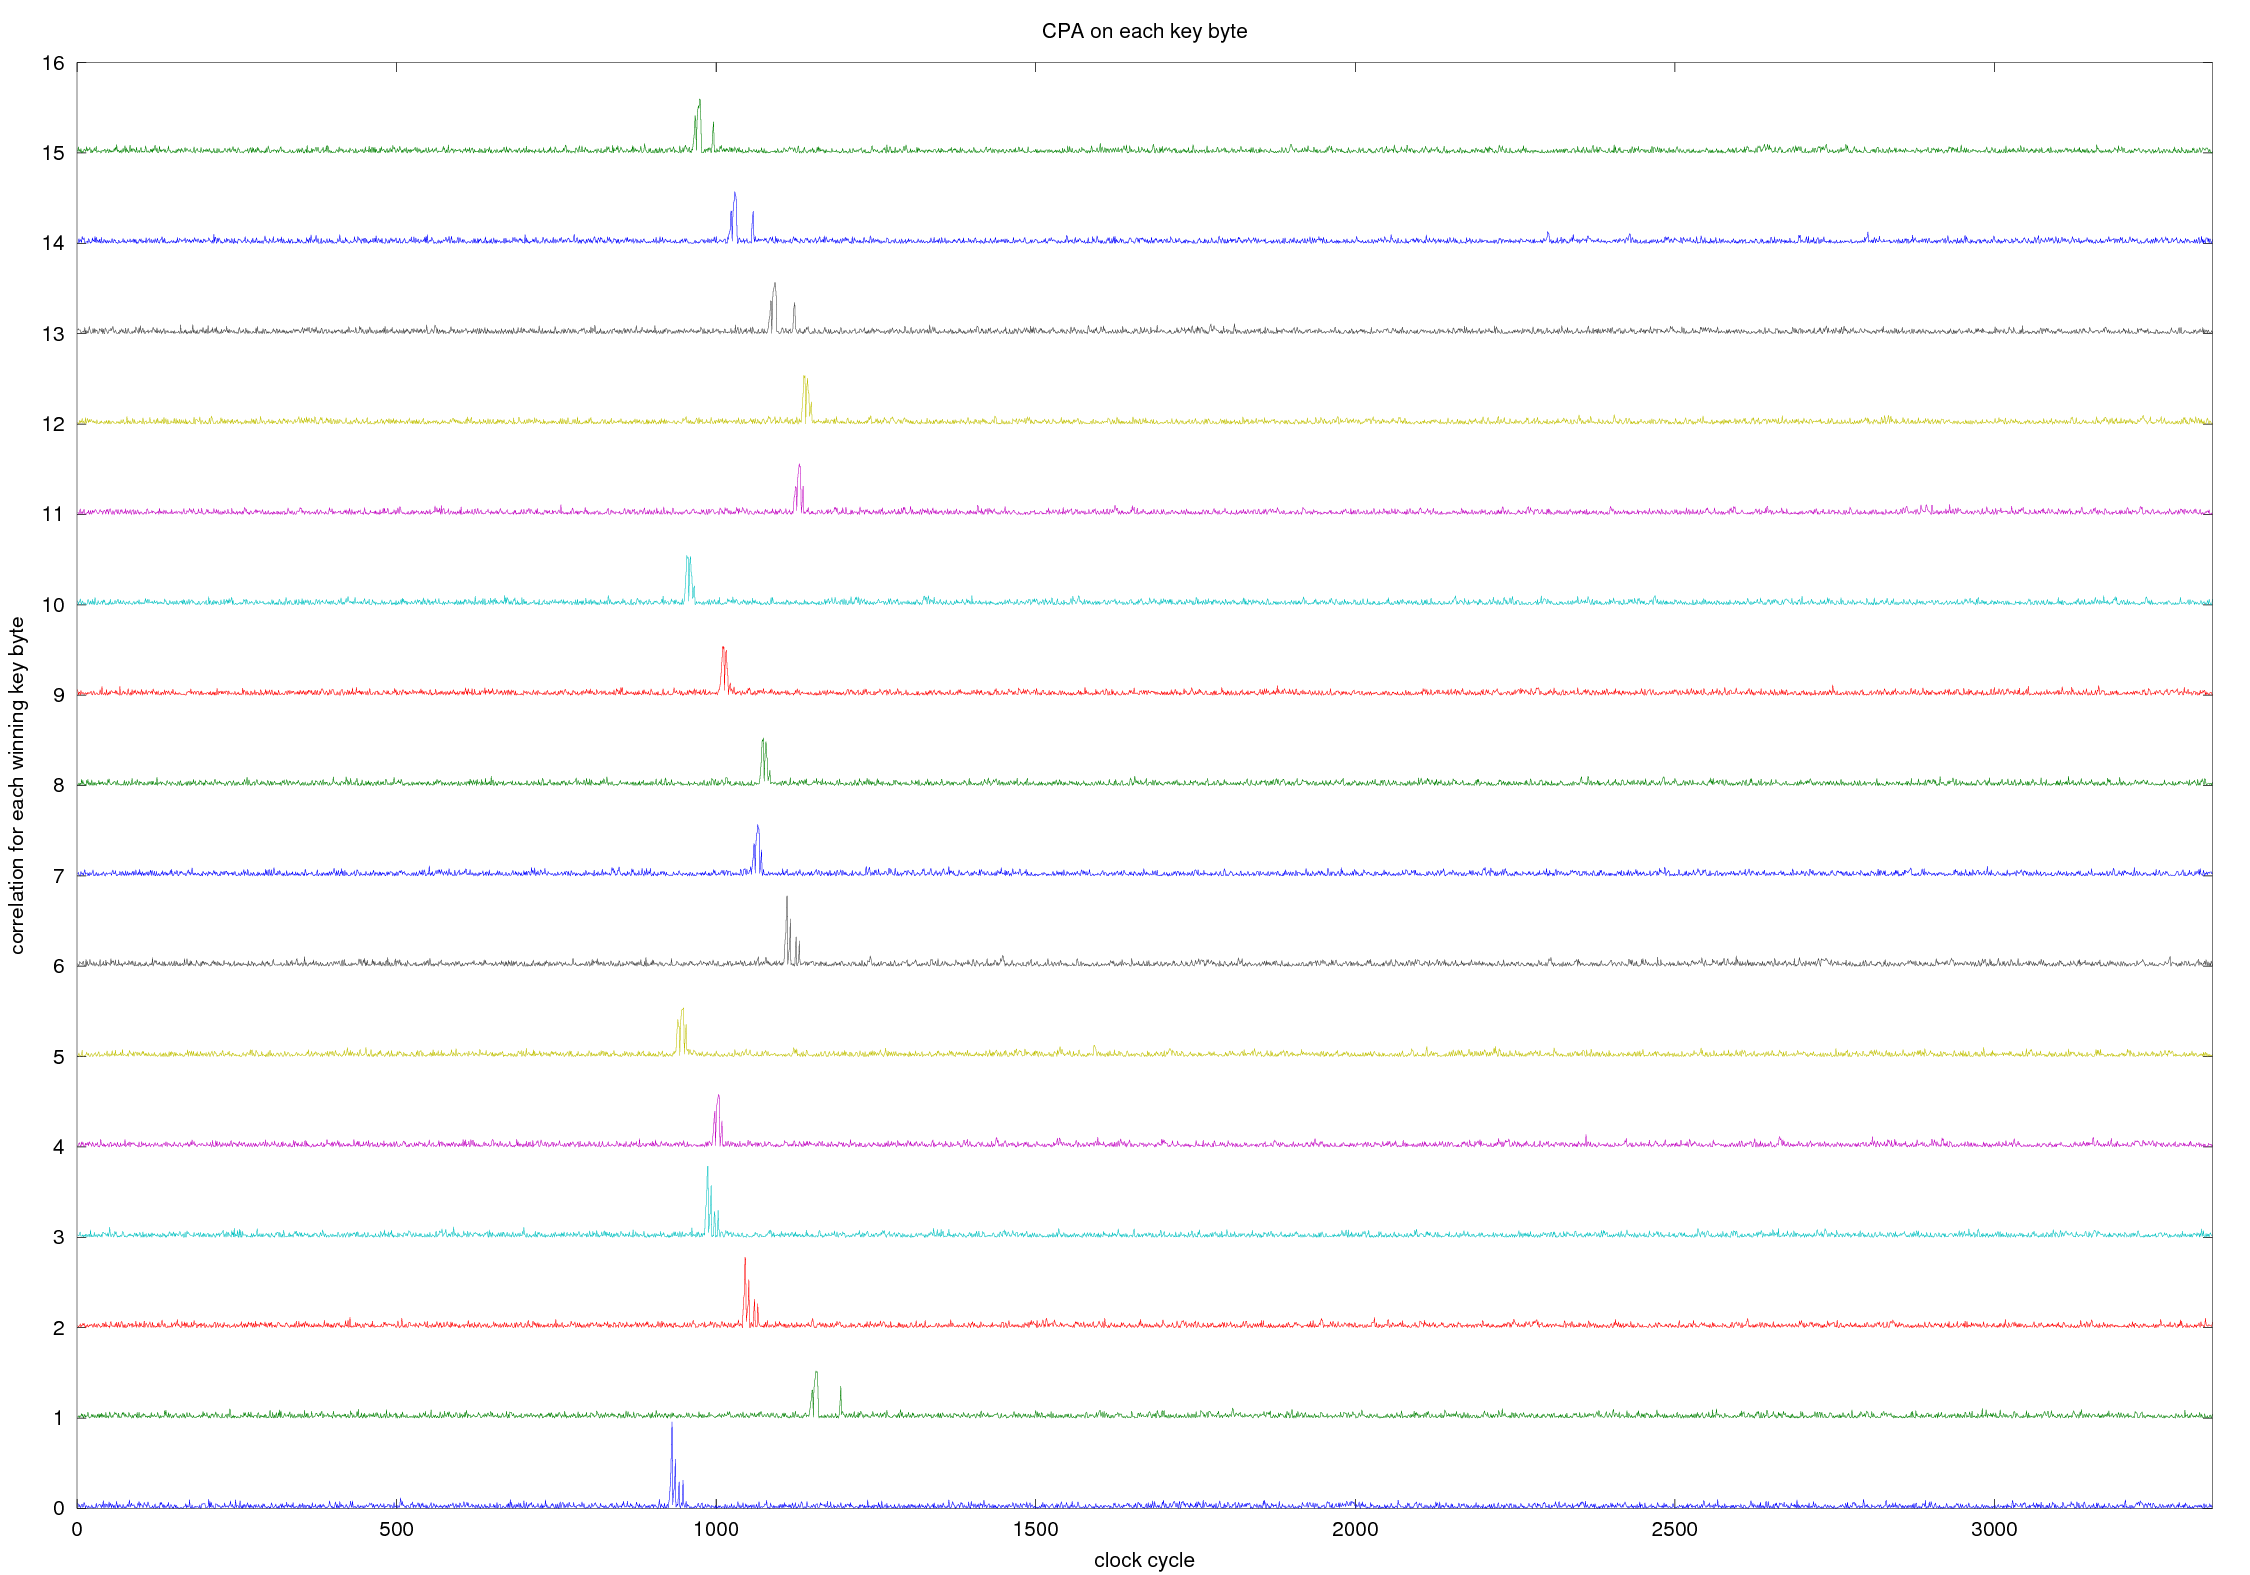
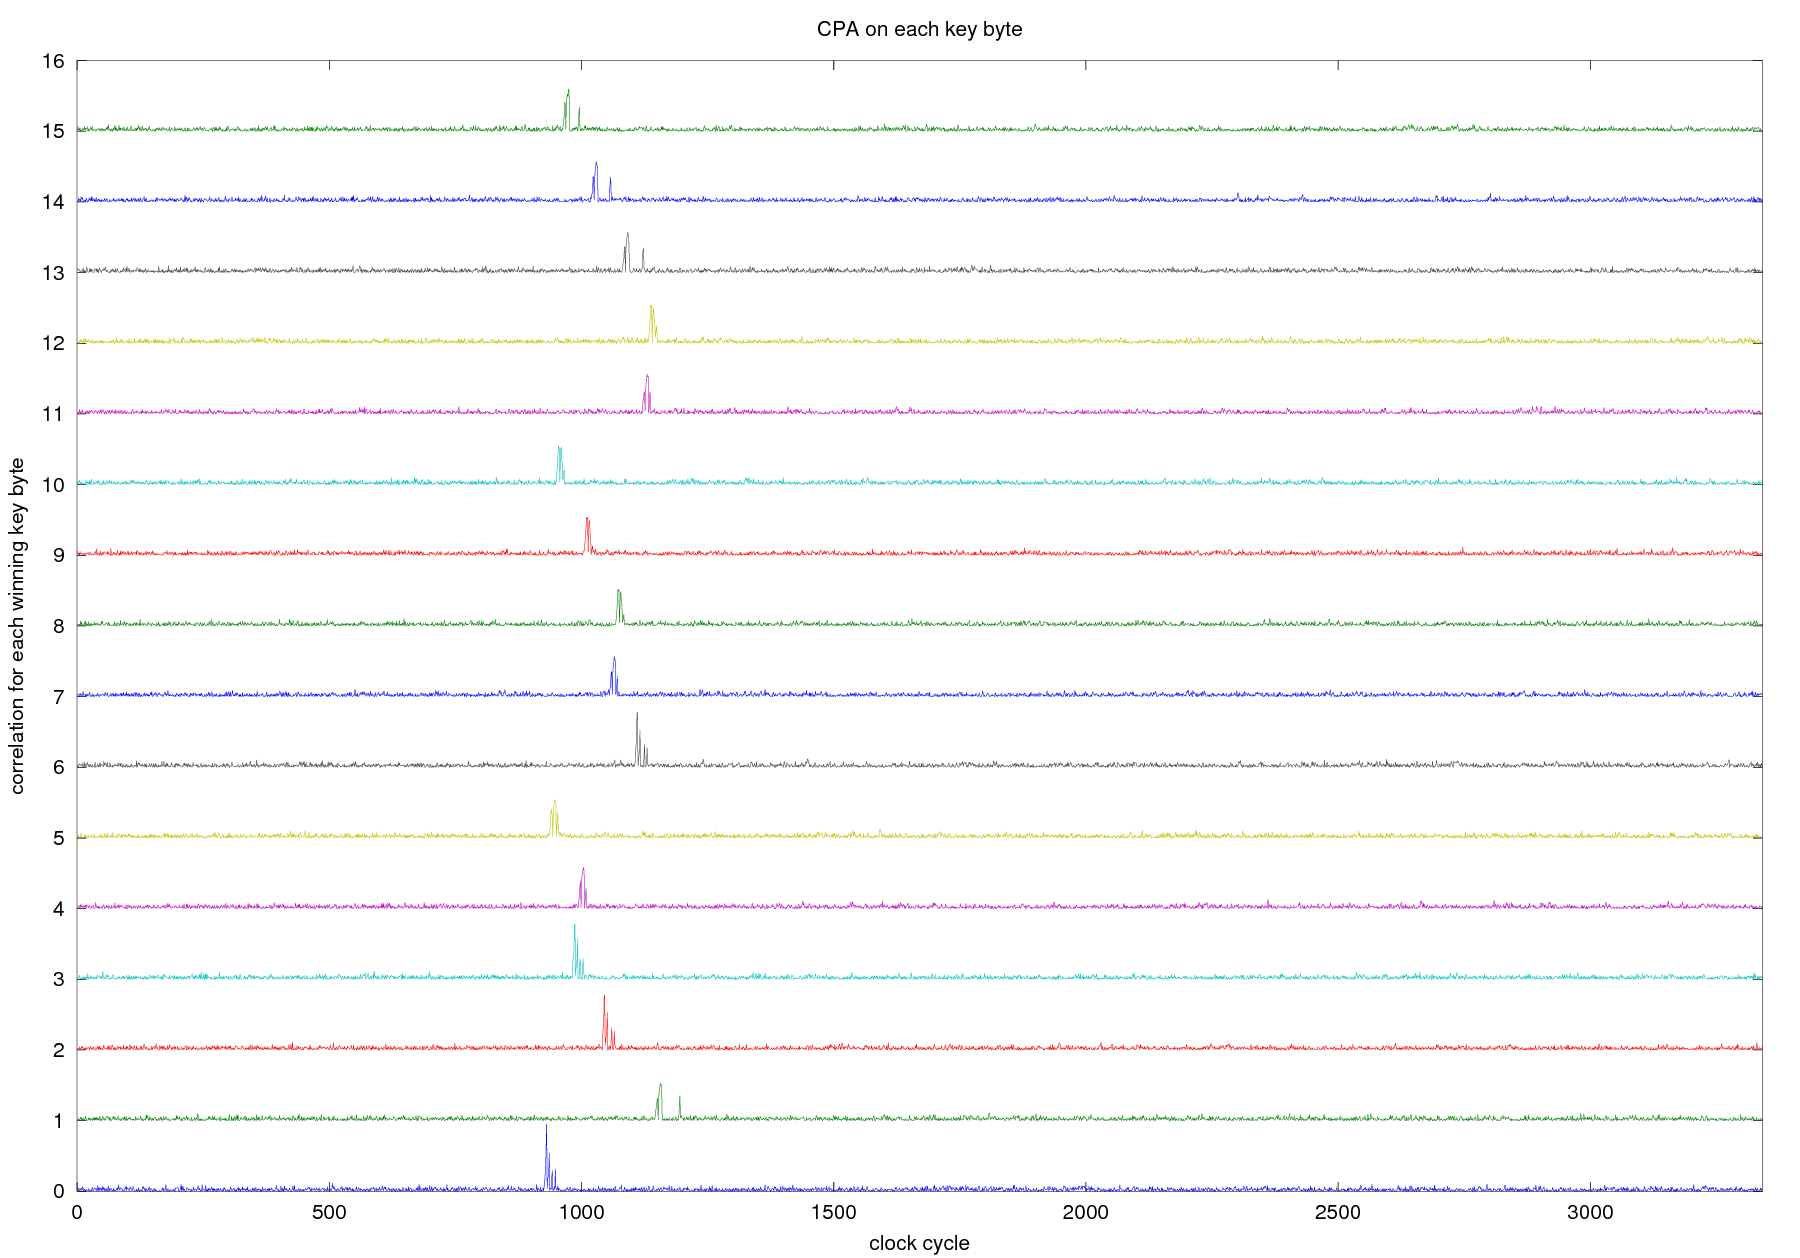
Update graphs

diff --git a/examples/rijndael-fast/analysis.m b/examples/rijndael-fast/analysis.m
@@ -49,7 +49,7 @@ printf("%d key bytes correct\n", sum(guessed_key == keys(1,:)));
 ## Make nice plots
 set(0, 'DefaulttextInterpreter', 'none')
 figure(1)
-papersize = [30,21]*0.5;
+papersize = [30,21]*0.4;
 set (gcf, "paperorientation", "landscape") 
 set (gcf, "papersize", papersize)
 set (gcf, "paperposition", [0 0, papersize])
